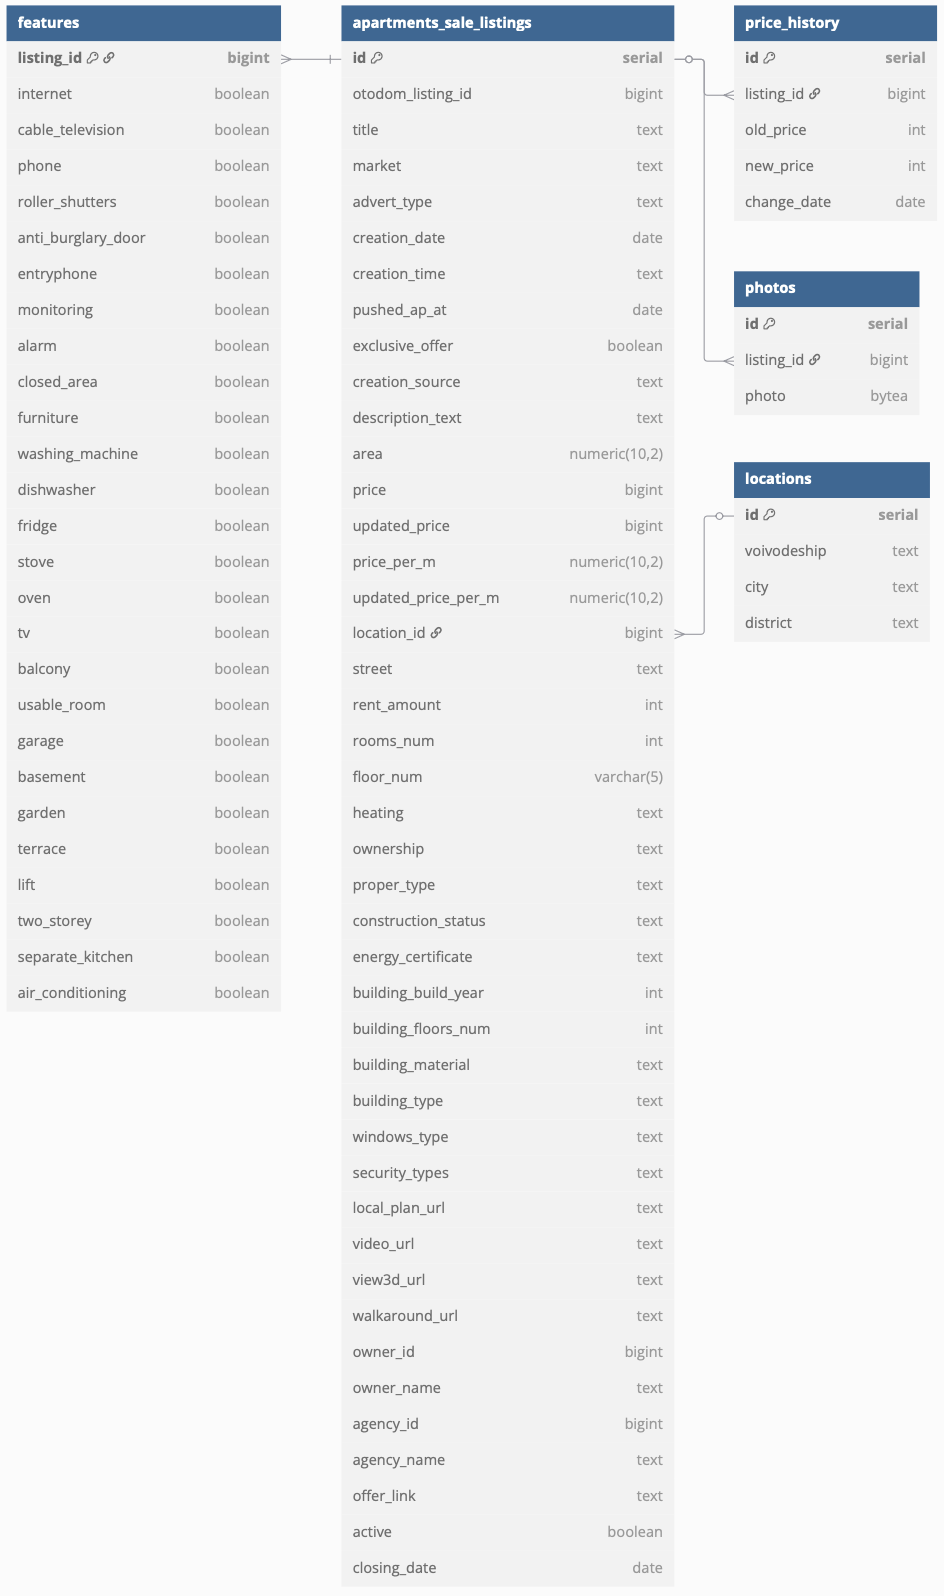
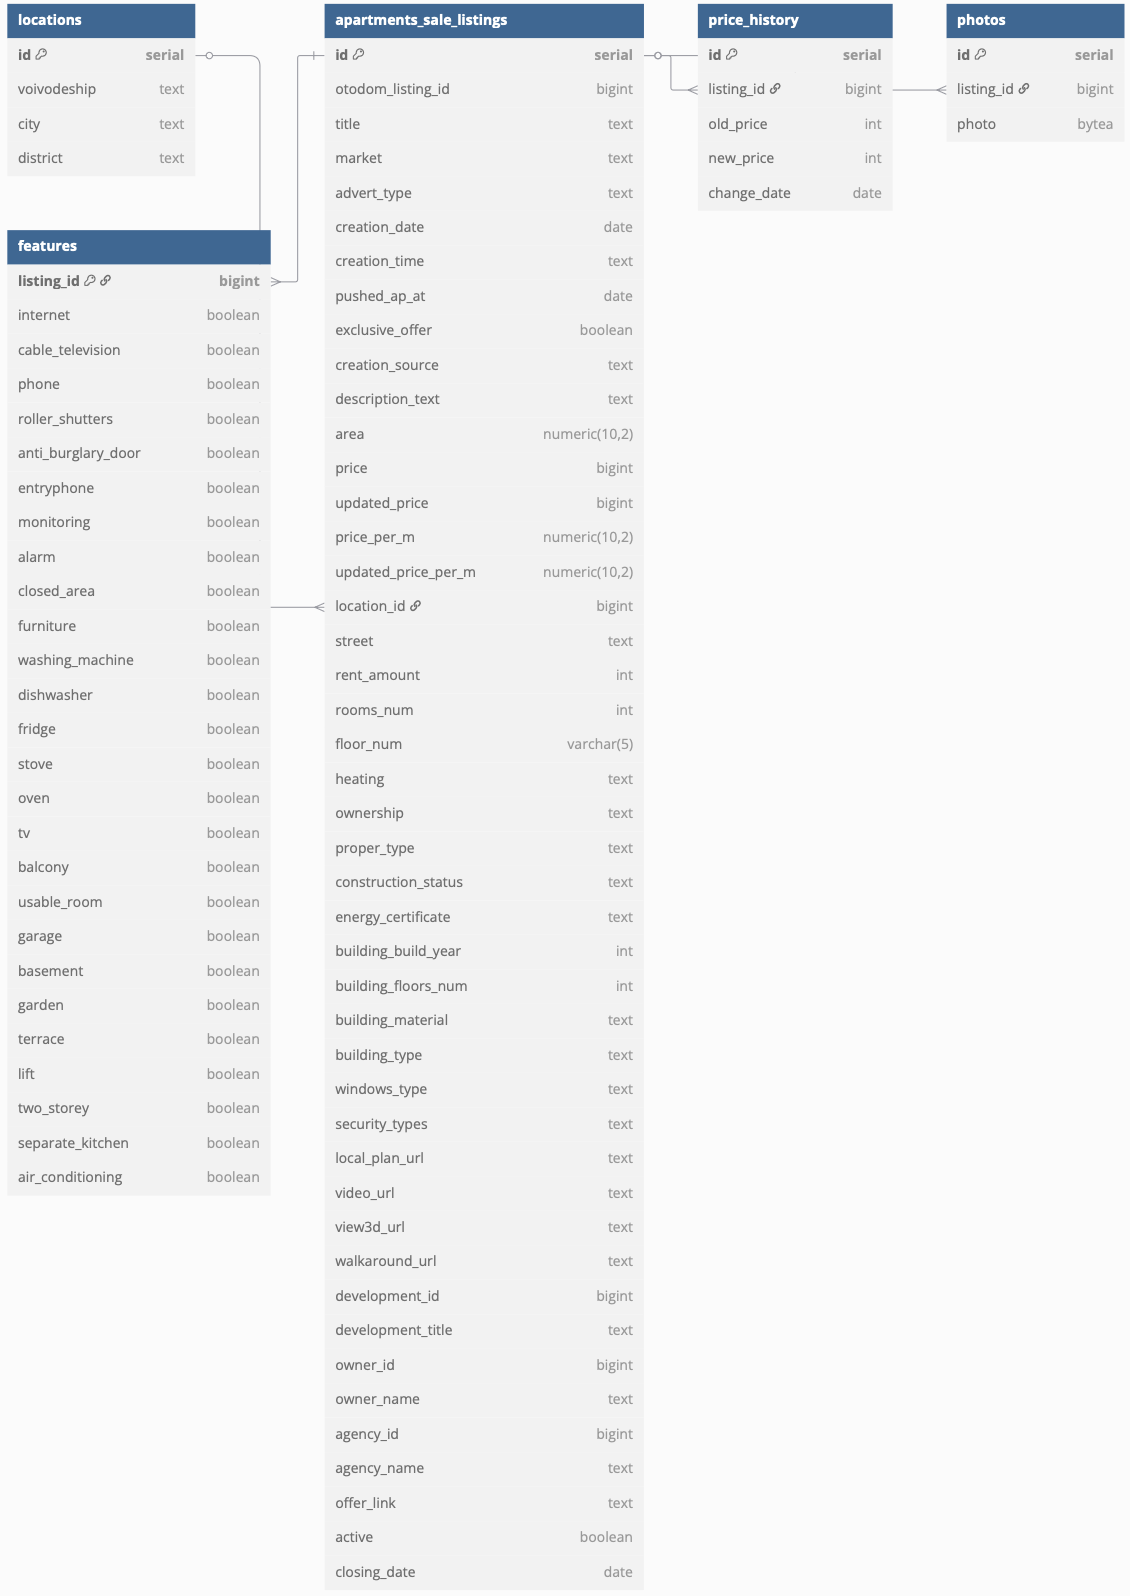
added new field to scraper output

diff --git a/scraper/fetch_and_parse.py b/scraper/fetch_and_parse.py
@@ -185,13 +185,15 @@ def download_data_from_search_results(base_url: str) -> list:
                             price_per_m = None
                         link = f"https://www.otodom.pl/pl/oferta/{related_offer.get('slug', None)}"
 
+                        logging.debug(f"{n}. ID oferty z searching page: {id}, area: {area}, price: {price}, price_per_m: {price_per_m}, link: {link}")
                         all_offers.append({
-                            'listing_id': listing_id,
+                            'listing_id': id,
                             'area': area,
                             'price': price,
                             'price_per_m': price_per_m,
                             'link': link
                         })
+                        n+=1
 
                 else:
                     logging.debug(f"{n}. ID oferty z searching page: {listing_id}, area: {area}, price: {price}, price_per_m: {price_per_m}, link: {link}")
@@ -204,6 +206,9 @@ def download_data_from_search_results(base_url: str) -> list:
                         'link': link
                     })
                 n+=1
+            
+            logging.debug(f"Liczba znalezionych ofert na stronie {page}: {n-1}")
+
         logging.debug(all_offers)
         return all_offers
 
@@ -290,7 +295,7 @@ def check_if_price_changed(fetched_data_from_otodom: dict, cur) -> tuple:
             logging.info(f"W ofercie {id_otodom} ({id_db}) cena {old_price} jest aktualna\n")
             return id_db, False, False
         else:
-            logging.debug(f"W ofercie {id_otodom} ({id_db}) cena {old_price} jest nieaktualna, nowa cena wynosi {new_price}\n")
+            logging.debug(f"W ofercie {id_otodom} ({id_db}) cena {old_price} jest nieaktualna, nowa cena wynosi {new_price}")
             return id_db, new_price, new_price_per_m
 
     except Exception as error:
@@ -536,7 +541,7 @@ def download_data_from_listing_page(html_response:requests.Response) -> dict:
         for data in reverseGeocoding_locations:
             district = data.get("name") if data.get("locationLevel") == "district" else None
 
-        # Zdjęcia
+        # zdjęcia
         images = []
         images_html = offer_data.get("images", None)
         logging.debug(f"Znaleziono {len(images_html)} zdjęć dla oferty")
@@ -562,9 +567,11 @@ def download_data_from_listing_page(html_response:requests.Response) -> dict:
         walkaround_url = (links.get("walkaroundUrl", None))
         
         # sprzedający
-        seller = (offer_data.get("owner", {}))
-        owner_id = (seller.get("id", None))
-        owner_name = (seller.get("name", None))
+        development_id = offer_data.get("developmentId", None)
+        development_title = offer_data.get("developmentTitle", None)
+        seller = offer_data.get("owner", {})
+        owner_id = seller.get("id", None)
+        owner_name = seller.get("name", None)
 
         agency = (offer_data.get("agency", {}))
         if agency:
@@ -625,13 +632,15 @@ def download_data_from_listing_page(html_response:requests.Response) -> dict:
         # zdjęcia
         data["images"] = images
         
-        # Sprzedajacy
+        # sprzedajacy
+        data["development_id"] = development_id
+        data["development_title"] = development_title or None
         data["owner_id"] = owner_id
         data["owner_name"] = owner_name
         data["agency_id"] = agency_id
         data["agency_name"] = agency_name
 
-        # Link do oferty
+        # link do oferty
         data["offer_link"] = f"https://www.otodom.pl/pl/oferta/{offer_data.get('slug', '')}"
 
         data['active'] = True

diff --git a/db/db_operations.py b/db/db_operations.py
@@ -55,10 +55,10 @@ def insert_into_apartments_sale_listings_table(cur, offer_data):
         area, price, updated_price, price_per_m, updated_price_per_m, location_id, street, rent_amount, 
         rooms_num, floor_num, heating, ownership, proper_type, construction_status, energy_certificate, 
         building_build_year, building_floors_num,  building_material, building_type, windows_type,  
-        local_plan_url, video_url, view3d_url, walkaround_url, owner_id, owner_name, agency_id, 
+        local_plan_url, video_url, view3d_url, walkaround_url, development_id, development_title, owner_id, owner_name, agency_id, 
         agency_name, offer_link, active, closing_date)
         VALUES (%s, %s, %s, %s, %s, %s, %s, %s, %s, %s, %s, %s, %s, %s, %s, %s, %s, %s, %s, %s, %s, %s, 
-        %s, %s, %s, %s, %s, %s, %s, %s, %s, %s, %s, %s, %s, %s, %s, %s, %s, %s, %s)
+        %s, %s, %s, %s, %s, %s, %s, %s, %s, %s, %s, %s, %s, %s, %s, %s, %s, %s, %s, %s, %s)
         RETURNING id
         ;"""
     
@@ -96,6 +96,8 @@ def insert_into_apartments_sale_listings_table(cur, offer_data):
                       offer_data['video_url'],
                       offer_data['view3d_url'],
                       offer_data['walkaround_url'],
+                      offer_data['development_id'],
+                      offer_data['development_title'],
                       offer_data['owner_id'],
                       offer_data['owner_name'],
                       offer_data['agency_id'],
